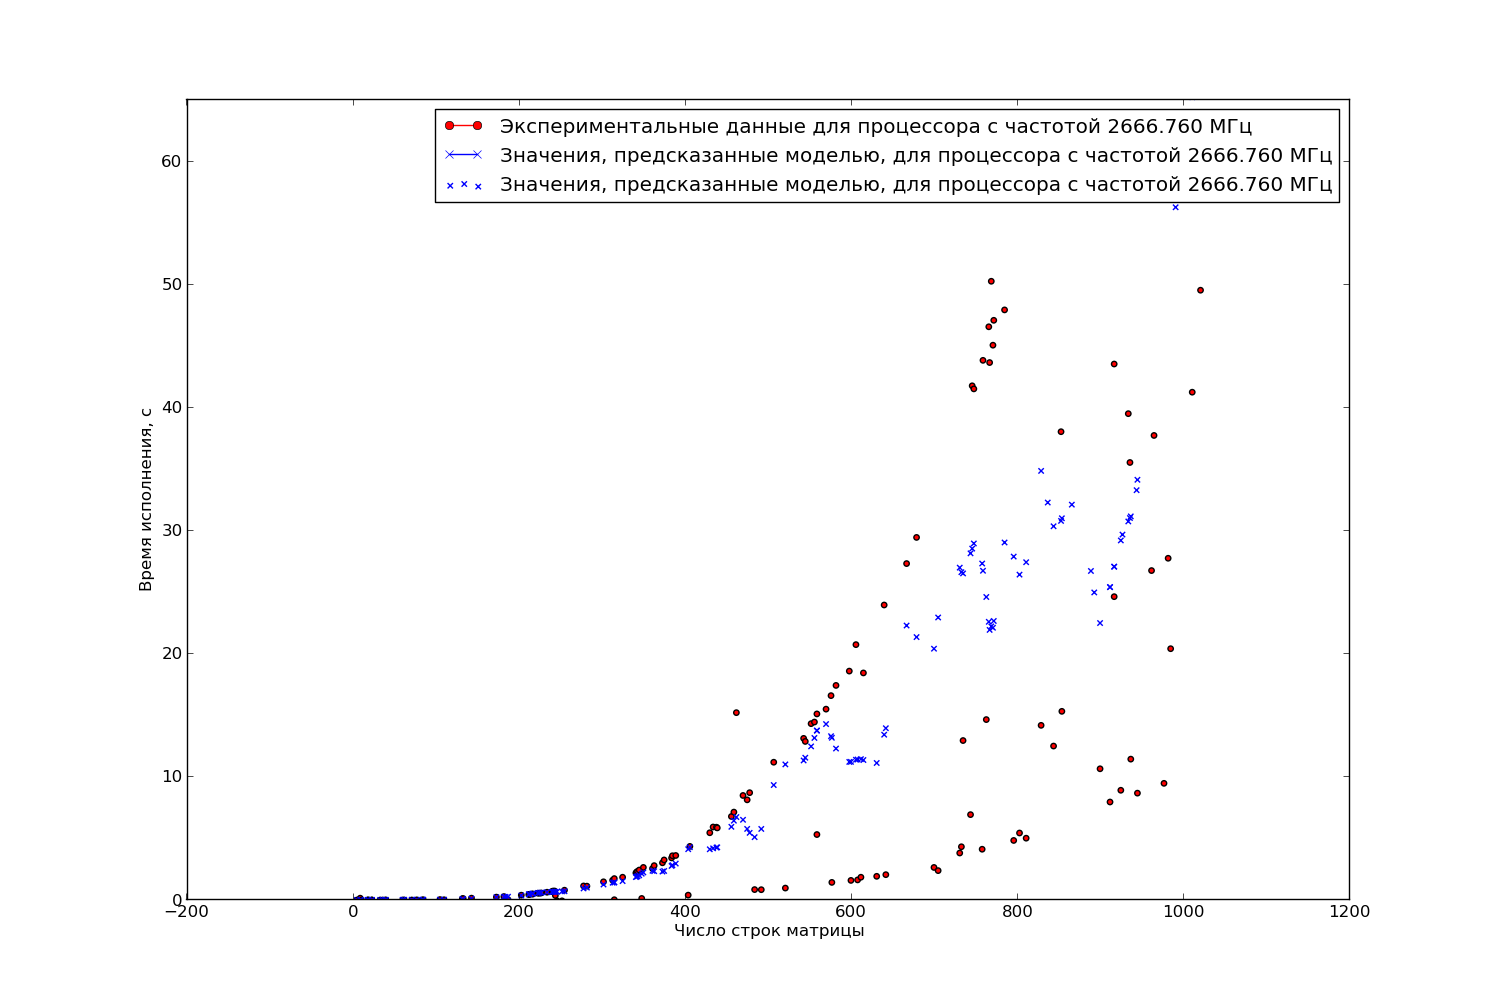
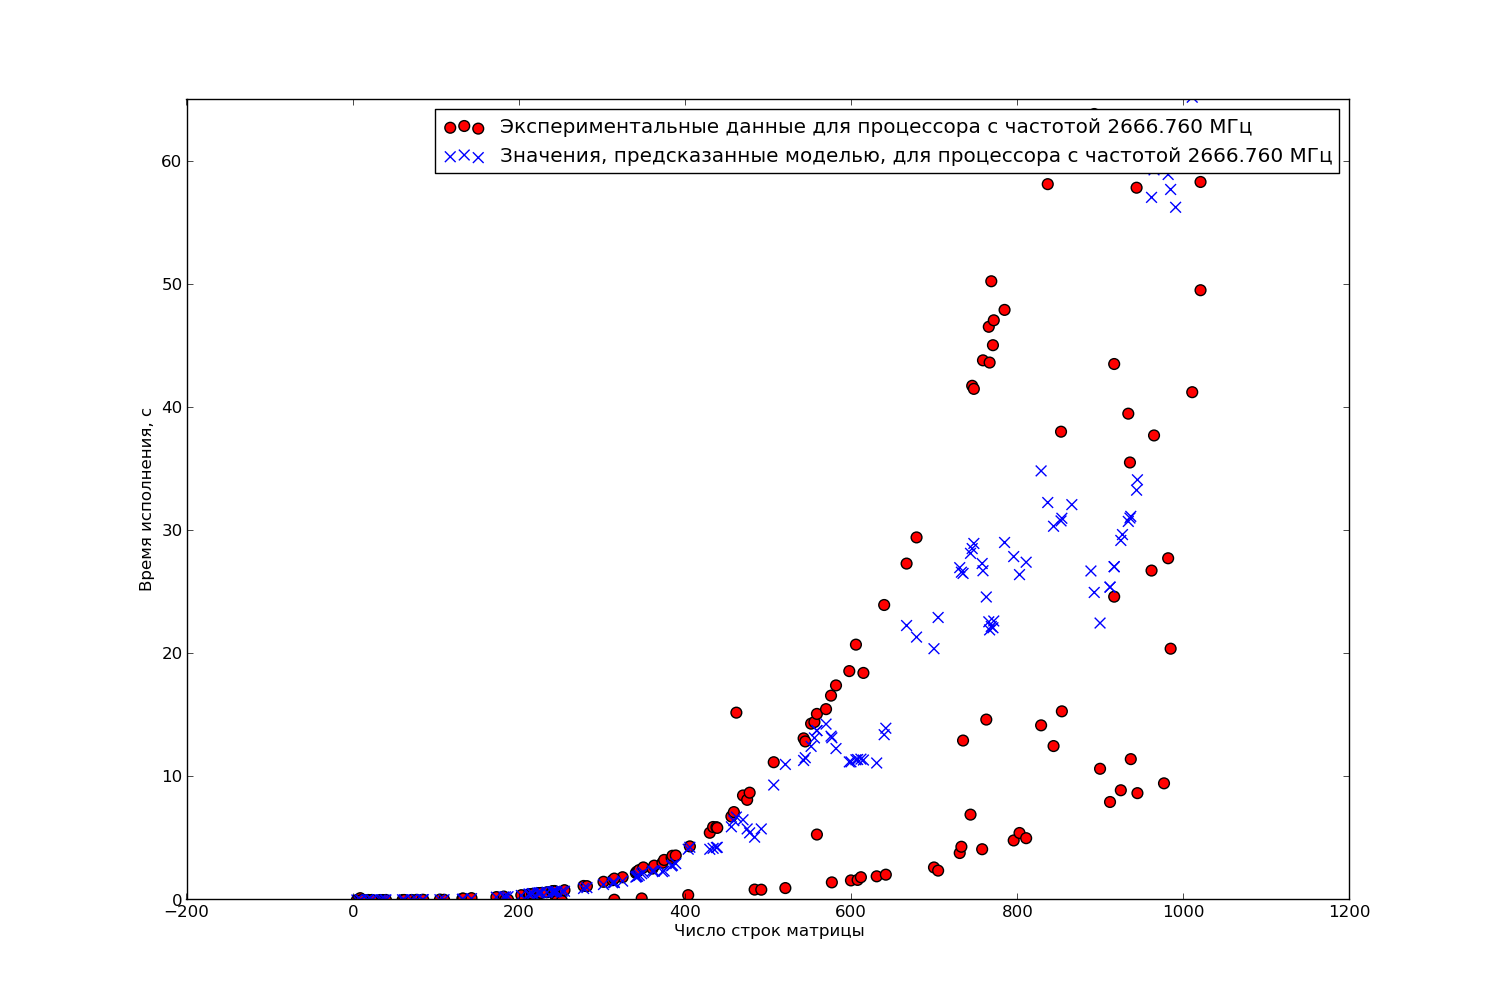
Minor fixes.

diff --git a/practice12/impl/src/system.py b/practice12/impl/src/system.py
@@ -284,17 +284,14 @@ def plot_predictions_distinct_2d(filename, predictor):
         times_freq = [float(d['c#time']) for d in dicts if filter_func(d)]
         preds_freq = [float(d[predictor]) for d in dicts if filter_func(d)]
         ax3d.scatter(ws_freq, times_freq,
-            c=cs[0], marker='o', s=15,
+            label=u'Экспериментальные данные для процессора с частотой {0} МГц'.format(freq),
+            c=cs[0], marker='o', s=60,
             cmap=cmap)
-        ax3d.plot([], [], c=cs[0], marker='o',
-            label=u'Экспериментальные данные для процессора с частотой {0} МГц'.format(freq))
 
         ax3d.scatter(ws_freq, preds_freq,
             label=u'Значения, предсказанные моделью, для процессора с частотой {0} МГц'.format(freq),
-            c=cs[1], marker='x', s=15,
+            c=cs[1], marker='x', s=60,
             cmap=cmap)
-        ax3d.plot([], [], c=cs[1], marker='x',
-            label=u'Значения, предсказанные моделью, для процессора с частотой {0} МГц'.format(freq))
 
         ax3d.set_ylim([0, 65])
 
@@ -303,14 +300,14 @@ def plot_predictions_distinct_2d(filename, predictor):
 
         plt.legend()
 
-        plt.savefig('../an/{2}-{0}-2d.png'.format(freq, expname))
+        plt.savefig('../an/{1}-{0}-2d.png'.format(freq, expname))
 
 
 def plot_predictions_all(basename):
     for predictor in [
      ('knn', 'm#kNN'), ('rf', 'm#Random Forest'), ('earth', 'm#Earth Learner')]:
         filename = basename.format(predictor[0])
-        plot_predictions_distinct(filename, predictor[1])
+        plot_predictions_distinct_2d(filename, predictor[1])
 
 
 def convert_input_to_settings(input):
